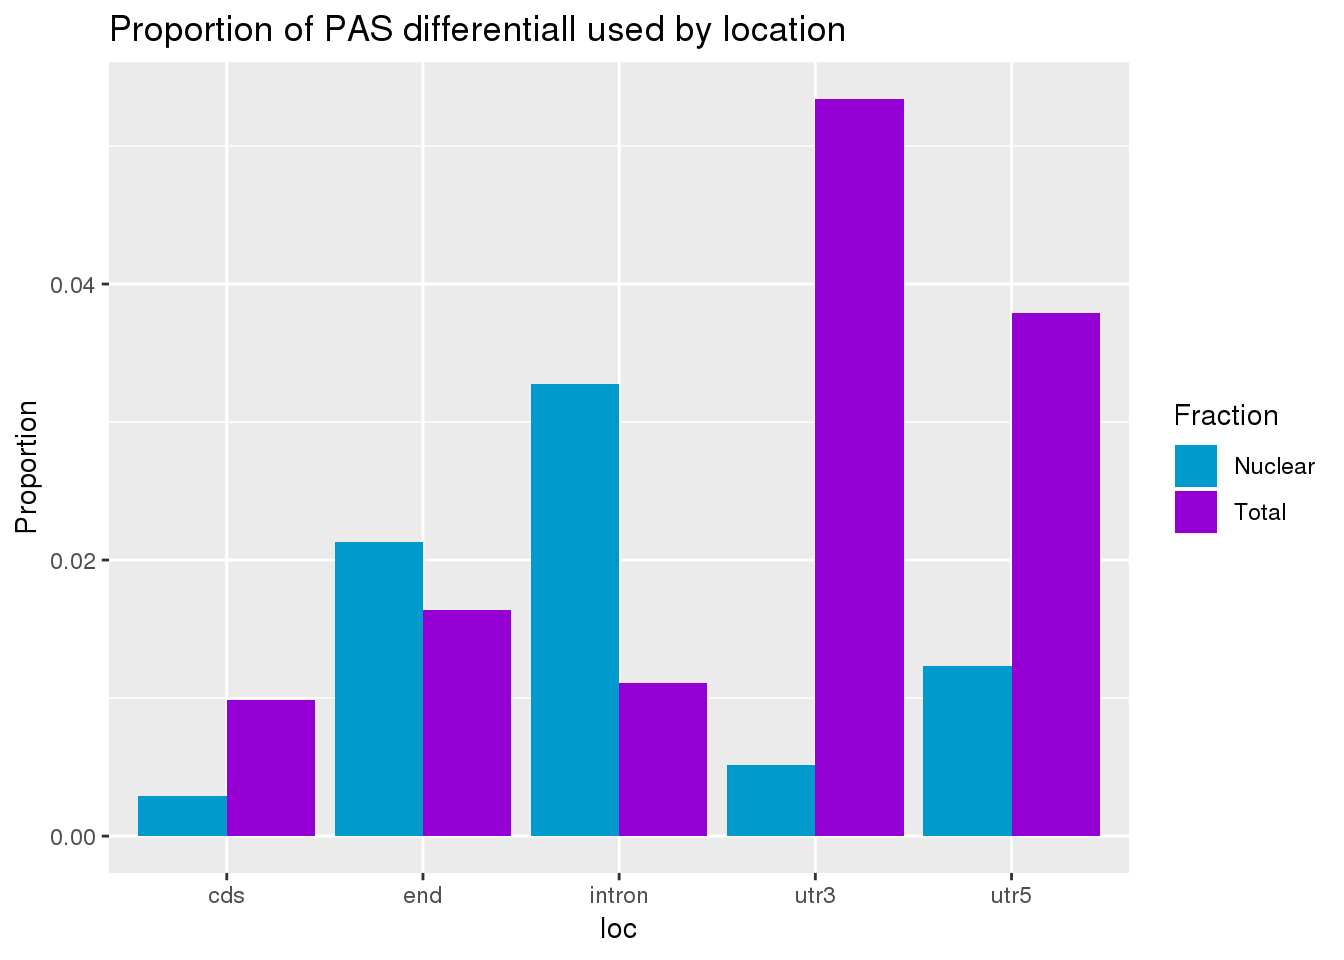
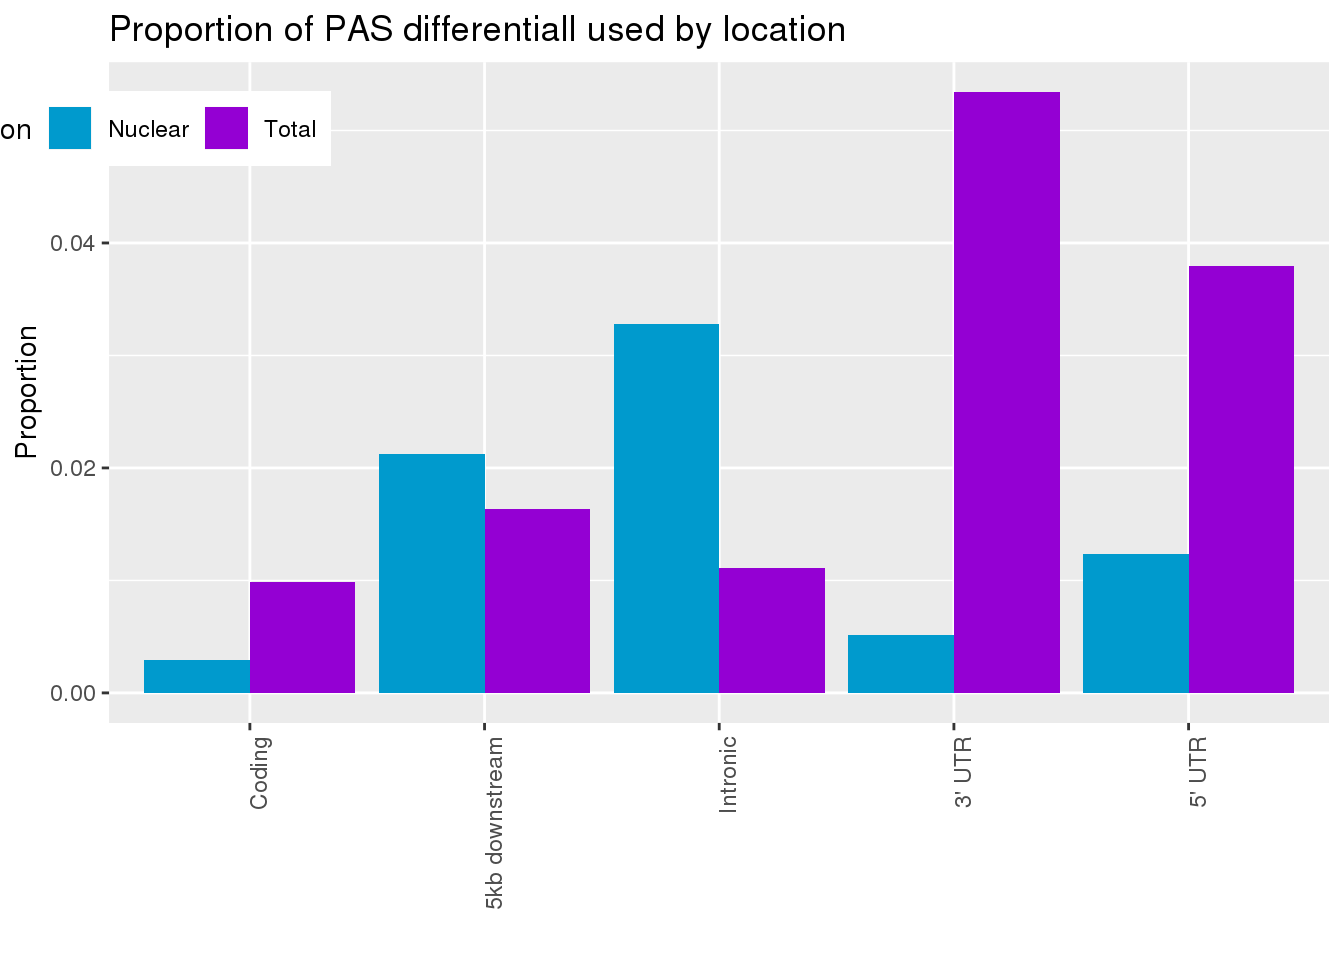
Build site.

diff --git a/docs/DiffIsoAnalysis.html b/docs/DiffIsoAnalysis.html
@@ -343,7 +343,7 @@ div.section {
 <div class="tab-content">
 <div id="summary" class="tab-pane fade in active">
 <p>
-<strong>Last updated:</strong> 2019-06-16
+<strong>Last updated:</strong> 2019-06-21
 </p>
 <p>
 <strong>Checks:</strong> <span class="glyphicon glyphicon-ok text-success" aria-hidden="true"></span> 6 <span class="glyphicon glyphicon-exclamation-sign text-danger" aria-hidden="true"></span> 0
@@ -422,10 +422,10 @@ This reproducible <a href="http://rmarkdown.rstudio.com">R Markdown</a> analysis
 <div class="panel panel-default">
 <div class="panel-heading">
 <p class="panel-title">
-<a data-toggle="collapse" data-parent="#workflowr-checks" href="#strongRepositoryversionstrongahrefhttpsgithubcombrimittlemanapaQTLtree8944f90eb9e88724cf62a9e84ff9c45831bdfd20targetblank8944f90a"> <span class="glyphicon glyphicon-ok text-success" aria-hidden="true"></span> <strong>Repository version:</strong> <a href="https://github.com/brimittleman/apaQTL/tree/8944f90eb9e88724cf62a9e84ff9c45831bdfd20" target="_blank">8944f90</a> </a>
+<a data-toggle="collapse" data-parent="#workflowr-checks" href="#strongRepositoryversionstrongahrefhttpsgithubcombrimittlemanapaQTLtree0d606c1c66742bf9bd29941523cd5e4b7cbc2d06targetblank0d606c1a"> <span class="glyphicon glyphicon-ok text-success" aria-hidden="true"></span> <strong>Repository version:</strong> <a href="https://github.com/brimittleman/apaQTL/tree/0d606c1c66742bf9bd29941523cd5e4b7cbc2d06" target="_blank">0d606c1</a> </a>
 </p>
 </div>
[2 lines of base64/hex data omitted]
 <div class="panel-body">
 <p>
 Great! You are using Git for version control. Tracking code development and connecting the code version to the results is critical for reproducibility. The version displayed above was the version of the Git repository at the time these results were generated. <br><br> Note that you need to be careful to ensure that all relevant files for the analysis have been committed to Git prior to generating the results (you can use <code>wflow_publish</code> or <code>wflow_git_commit</code>). workflowr only checks the R Markdown file, but you know if there are other scripts or data files that it depends on. Below is the status of the Git repository when the results were generated:
@@ -448,15 +448,17 @@ Untracked files:
     Untracked:  analysis/QTLexampleplots.Rmd
     Untracked:  analysis/cuttoffPercUsage.Rmd
     Untracked:  analysis/eQTLoverlap.Rmd
+    Untracked:  analysis/mergeRNA.Rmd
     Untracked:  analysis/oldstuffNotNeeded.Rmd
-    Untracked:  analysis/usageNucspecapaQTLs.Rmd
     Untracked:  apaQTL.Rproj
     Untracked:  code/.NascentRNAdtPlotFirstintronicPAS.sh.swp
     Untracked:  code/._ApaQTL_nominalNonnorm.sh
     Untracked:  code/._BothFracDTPlotGeneRegions_normalized.sh
+    Untracked:  code/._EandPqtls.sh
     Untracked:  code/._FC_NucintornUpandDown.sh
     Untracked:  code/._FC_UTR.sh
     Untracked:  code/._FC_intornUpandDownsteamPAS.sh
+    Untracked:  code/._FC_nascentseq.sh
     Untracked:  code/._FC_newPeaks_olddata.sh
     Untracked:  code/._HMMpermuteTotal.py
     Untracked:  code/._HmmPermute.py
@@ -471,6 +473,7 @@ Untracked files:
     Untracked:  code/._NetSeq_fourthintronDT.sh
     Untracked:  code/._QTL2bed.py
     Untracked:  code/._QTL2bed_withstrand.py
+    Untracked:  code/._RNAbam2bw.sh
     Untracked:  code/._SnakefilePAS
     Untracked:  code/._SnakefilefiltPAS
     Untracked:  code/._TESplots100bp.sh
@@ -490,6 +493,7 @@ Untracked files:
     Untracked:  code/._bothFracDTplot4thintron.sh
     Untracked:  code/._bothFrac_FC.sh
     Untracked:  code/._callPeaksYL.py
+    Untracked:  code/._changenomQTLres2geneName.py
     Untracked:  code/._chooseAnno2SAF.py
     Untracked:  code/._chooseSignalSite
     Untracked:  code/._chooseSignalSite.py
@@ -545,6 +549,7 @@ Untracked files:
     Untracked:  code/._makeeQTLempirical_unexp.py
     Untracked:  code/._makeeQTLempiricaldist.py
     Untracked:  code/._makegencondeTSSfile.py
+    Untracked:  code/._mergRNABam.sh
     Untracked:  code/._mergeAllBam.sh
     Untracked:  code/._mergeBW_norm.sh
     Untracked:  code/._mergeBamNascent.sh
@@ -558,6 +563,7 @@ Untracked files:
     Untracked:  code/._peak2PAS.py
     Untracked:  code/._peakFC.sh
     Untracked:  code/._pheno2countonly.R
+    Untracked:  code/._phenoQTLfromlist.py
     Untracked:  code/._processYRIgen.py
     Untracked:  code/._qtlRegionseq.sh
     Untracked:  code/._qtlsPvalOppFrac.py
@@ -581,6 +587,7 @@ Untracked files:
     Untracked:  code/._sepgenobychrom.py
     Untracked:  code/._snakemakePAS.batch
     Untracked:  code/._snakemakefiltPAS.batch
+    Untracked:  code/._sortindexRNAbam.sh
     Untracked:  code/._submit-snakemakePAS.sh
     Untracked:  code/._submit-snakemakefiltPAS.sh
     Untracked:  code/._subsetAPAnotEorPgene.py
@@ -613,6 +620,9 @@ Untracked files:
     Untracked:  code/BothFracDTPlotGeneRegions_norm.out
     Untracked:  code/BothFracDTPlotGeneRegions_normalized.sh
     Untracked:  code/DistPAS2Sig.py
+    Untracked:  code/EandPqtl.err
+    Untracked:  code/EandPqtl.out
+    Untracked:  code/EandPqtls.sh
     Untracked:  code/EncodeRNADTPlotGeneRegions.err
     Untracked:  code/EncodeRNADTPlotGeneRegions.out
     Untracked:  code/FC_NucintornUpandDown.sh
@@ -624,6 +634,9 @@ Untracked files:
     Untracked:  code/FC_intornUpandDownsteamPAS.sh
     Untracked:  code/FC_intronPASupandDown.err
     Untracked:  code/FC_intronPASupandDown.out
+    Untracked:  code/FC_nascent.err
+    Untracked:  code/FC_nascentout
+    Untracked:  code/FC_nascentseq.sh
     Untracked:  code/FC_newPAS_olddata.err
     Untracked:  code/FC_newPAS_olddata.out
     Untracked:  code/FC_newPeaks_olddata.sh
@@ -654,10 +667,17 @@ Untracked files:
     Untracked:  code/NascentRNAdtPlotintronicPAS.sh
     Untracked:  code/NascnetRNAdtPlotPAS.sh
     Untracked:  code/NetSeq_fourthintronDT.sh
+    Untracked:  code/Nuclear_example.err
+    Untracked:  code/Nuclear_example.out
     Untracked:  code/QTL2bed.py
     Untracked:  code/QTL2bed_withstrand.py
     Untracked:  code/README.md
+    Untracked:  code/RNABam2BW.err
+    Untracked:  code/RNABam2BW.out
+    Untracked:  code/RNAbam2bw.sh
     Untracked:  code/Rplots.pdf
+    Untracked:  code/Script4NuclearQTLexamples.sh
+    Untracked:  code/Script4TotalQTLexamples.sh
     Untracked:  code/TESplots100bp.err
     Untracked:  code/TESplots100bp.out
     Untracked:  code/TESplots100bp.sh
@@ -667,6 +687,8 @@ Untracked files:
     Untracked:  code/TESplots200bp.err
     Untracked:  code/TESplots200bp.out
     Untracked:  code/TESplots200bp.sh
+    Untracked:  code/Total_example.err
+    Untracked:  code/Total_example.out
     Untracked:  code/Untitled
     Untracked:  code/Upstream100Bases_general.py
     Untracked:  code/ZipandTabPheno.sh
@@ -692,6 +714,7 @@ Untracked files:
     Untracked:  code/bothFrac_FC.err
     Untracked:  code/bothFrac_FC.out
     Untracked:  code/bothFrac_FC.sh
+    Untracked:  code/changenomQTLres2geneName.py
     Untracked:  code/codingdms2bed.py
     Untracked:  code/convertNominal2SNPLOC.py
     Untracked:  code/correctNomeqtl.R
@@ -743,12 +766,15 @@ Untracked files:
     Untracked:  code/makeeQTLempirical_unexp.py
     Untracked:  code/makeeQTLempiricaldist.py
     Untracked:  code/makegencondeTSSfile.py
+    Untracked:  code/mergRNABam.sh
     Untracked:  code/mergeBW_norm.sh
     Untracked:  code/mergeBWnorm.err
     Untracked:  code/mergeBWnorm.out
     Untracked:  code/mergeBamNacent.err
     Untracked:  code/mergeBamNacent.out
     Untracked:  code/mergeBamNascent.sh
+    Untracked:  code/mergeRNAbam.err
+    Untracked:  code/mergeRNAbam.out
     Untracked:  code/mnase1stintron.sh
     Untracked:  code/mnaseDTPlot1stintron.err
     Untracked:  code/mnaseDTPlot1stintron.out
@@ -761,6 +787,7 @@ Untracked files:
     Untracked:  code/netseqFC.out
     Untracked:  code/netseqFC.sh
     Untracked:  code/neyDTPlot4thintron.err
+    Untracked:  code/phenoQTLfromlist.py
     Untracked:  code/processYRIgen.py
     Untracked:  code/qtlFacetBoxplots.err
     Untracked:  code/qtlFacetBoxplots.out
@@ -814,6 +841,9 @@ Untracked files:
     Untracked:  code/seqQTLregion.out
     Untracked:  code/snakePASlog.out
     Untracked:  code/snakefiltPASlog.out
+    Untracked:  code/sortindexRNABam.err
+    Untracked:  code/sortindexRNABam.out
+    Untracked:  code/sortindexRNAbam.sh
     Untracked:  code/subsetAPAnotEorPgene.py
     Untracked:  code/subsetApanoteGene.py
     Untracked:  code/subsetUnexplainedeQTLs.py
@@ -832,6 +862,7 @@ Untracked files:
     Untracked:  code/utrdms2saf.py
     Untracked:  code/vcf_keepsnps.err
     Untracked:  code/vcf_keepsnps.out
+    Untracked:  code/writeExampleQTLcode.py
     Untracked:  code/zipandtabPhen.err
     Untracked:  code/zipandtabPhen.out
     Untracked:  data/._.DS_Store
@@ -847,6 +878,7 @@ Untracked files:
     Untracked:  data/HMMqtls/
     Untracked:  data/Li_eQTLs/
     Untracked:  data/NascentRNA/
+    Untracked:  data/NucSpeceQTLeffect/
     Untracked:  data/PAS/
     Untracked:  data/QTLGenotypes/
     Untracked:  data/QTLoverlap/
@@ -888,6 +920,8 @@ Untracked files:
     Untracked:  data/mergedBW_norm/
     Untracked:  data/mergedBam/
     Untracked:  data/mergedbyFracBam/
+    Untracked:  data/molPhenos/
+    Untracked:  data/molQTLs/
     Untracked:  data/motifdistrupt/
     Untracked:  data/netseq/
     Untracked:  data/nonNorm_pheno/
@@ -911,10 +945,10 @@ Untracked files:
     Untracked:  output/meanCorrelationPhenotypes.svg
 
 Unstaged changes:
+    Modified:   analysis/NuclearSpecAPAqtl.Rmd
     Modified:   analysis/Readdistagainstfeatures.Rmd
-    Modified:   analysis/intonRNAratio.Rmd
-    Modified:   analysis/nascentRNA.Rmd
     Modified:   analysis/overlapapaqtlsandeqtls.Rmd
+    Modified:   analysis/pQTLandeQTLoverlap.Rmd
     Modified:   code/BothFracDTPlotGeneRegions.sh
     Modified:   code/Snakefile
     Deleted:    code/Upstream10Bases_general.py
@@ -968,6 +1002,40 @@ Message
 </tr>
 </thead>
 <tbody>
+<tr>
+<td>
+Rmd
+</td>
+<td>
+<a href="https://github.com/brimittleman/apaQTL/blob/0d606c1c66742bf9bd29941523cd5e4b7cbc2d06/analysis/DiffIsoAnalysis.Rmd" target="_blank">0d606c1</a>
+</td>
+<td>
+brimittleman
+</td>
+<td>
+2019-06-21
+</td>
+<td>
+fix figures
+</td>
+</tr>
+<tr>
+<td>
+html
+</td>
+<td>
+<a href="https://rawcdn.githack.com/brimittleman/apaQTL/2d1a80c01ce5b56d1de2e91a768f77c5a154d9bb/docs/DiffIsoAnalysis.html" target="_blank">2d1a80c</a>
+</td>
+<td>
+brimittleman
+</td>
+<td>
+2019-06-16
+</td>
+<td>
+Build site.
+</td>
+</tr>
 <tr>
 <td>
 Rmd
@@ -1268,12 +1336,12 @@ add diff iso
 <pre><code>This is workflowr version 1.3.0
 Run ?workflowr for help getting started</code></pre>
 <pre class="r"><code>library(tidyverse)</code></pre>
-<pre><code>── Attaching packages ────────────────────────────────────────────────── tidyverse 1.2.1 ──</code></pre>
+<pre><code>── Attaching packages ───────────────────────────────────────────────────────────────────────────────────────────────────────────────── tidyverse 1.2.1 ──</code></pre>
 <pre><code>✔ ggplot2 3.1.1       ✔ purrr   0.3.2  
 ✔ tibble  2.1.1       ✔ dplyr   0.8.0.1
 ✔ tidyr   0.8.3       ✔ stringr 1.3.1  
 ✔ readr   1.3.1       ✔ forcats 0.3.0  </code></pre>
-<pre><code>── Conflicts ───────────────────────────────────────────────────── tidyverse_conflicts() ──
+<pre><code>── Conflicts ──────────────────────────────────────────────────────────────────────────────────────────────────────────────────── tidyverse_conflicts() ──
 ✖ dplyr::filter() masks stats::filter()
 ✖ dplyr::lag()    masks stats::lag()</code></pre>
 <pre class="r"><code>library(reshape2)</code></pre>
@@ -1705,7 +1773,7 @@ brimittleman
 <pre class="r"><code>effectsize_deltaPAUProp_both= effectsize_deltaPAUProp_nuc %&gt;% inner_join(effectsize_deltaPAUProp_tot, by=c(&quot;loc&quot;,&quot;nloc&quot;)) %&gt;% dplyr::rename(Nuclear=Proportion_nuc, Total=Proportion_tot) %&gt;% select(loc, Nuclear, Total) 
 effectsize_deltaPAUProp_both_melt= effectsize_deltaPAUProp_both %&gt;% melt(id.vars=&quot;loc&quot;, variable.name=&quot;Fraction&quot;, value.name = &quot;Proportion&quot;) 
 effectsize_deltaPAUProp_both_melt$Fraction=as.character(effectsize_deltaPAUProp_both_melt$Fraction)</code></pre>
-<pre class="r"><code>ggplot(effectsize_deltaPAUProp_both_melt, aes(x=loc, y=Proportion, by=Fraction, fill=Fraction)) + geom_bar(stat=&quot;identity&quot;, position=&quot;dodge&quot;) + scale_fill_manual(values=c(&quot;deepskyblue3&quot;,&quot;darkviolet&quot;)) + labs(title=&quot;Proportion of PAS differentiall used by location&quot;)</code></pre>
+<pre class="r"><code>ggplot(effectsize_deltaPAUProp_both_melt, aes(x=loc, y=Proportion, by=Fraction, fill=Fraction)) + geom_bar(stat=&quot;identity&quot;, position=&quot;dodge&quot;) + scale_fill_manual(values=c(&quot;deepskyblue3&quot;,&quot;darkviolet&quot;)) + labs(title=&quot;Proportion of PAS differentiall used by location&quot;,x=&quot;&quot;) +scale_x_discrete(labels = c(&#39;Coding&#39;,&#39;5kb downstream&#39;,&#39;Intronic&#39;,&quot;3&#39; UTR&quot;, &quot;5&#39; UTR&quot;)) +theme(axis.text.x = element_text(angle = 90, hjust = 1)) +  theme(legend.position = c(0.01,.9), legend.direction = &quot;horizontal&quot;)</code></pre>
 <p><img src="figure/DiffIsoAnalysis.Rmd/unnamed-chunk-32-1.png" width="672" style="display: block; margin: auto;" /></p>
 <p>
 <button type="button" class="btn btn-default btn-xs btn-workflowr btn-workflowr-fig" data-toggle="collapse" data-target="#fig-unnamed-chunk-32-1">
@@ -2016,7 +2084,7 @@ brimittleman
 <pre class="r"><code>summary(effectsize$logef)</code></pre>
 <pre><code>    Min.  1st Qu.   Median     Mean  3rd Qu.     Max. 
 -2.44401 -0.33487 -0.01384  0.00000  0.34328  2.47805 </code></pre>
-<pre class="r"><code>ggplot(effectsize_length_cat, aes(x=PercLength, by=fraction, fill=fraction))+ geom_histogram(alpha=.4,bins=50)  + labs(title=&quot;Location of differentially used PAS \nwithin a gene body &quot;)+scale_fill_manual(values=c(&quot;deepskyblue3&quot;,&quot;darkviolet&quot;)) </code></pre>
+<pre class="r"><code>ggplot(effectsize_length_cat, aes(x=PercLength, by=fraction, fill=fraction))+ geom_histogram(,bins=50)  + labs(title=&quot;Location of differentially used PAS \nwithin a gene body&quot;, fill=&quot;Fraction&quot;, y=&quot;Number of PAS&quot;, x=&quot;Percent of Gene Length&quot;)+scale_fill_manual(values=c(&quot;deepskyblue3&quot;,&quot;darkviolet&quot;),labels = c(&quot;Nuclear&quot;, &quot;Total&quot;))+ theme(legend.position = c(0.01,.9), legend.direction = &quot;horizontal&quot;)</code></pre>
 <p><img src="figure/DiffIsoAnalysis.Rmd/unnamed-chunk-46-1.png" width="672" style="display: block; margin: auto;" /></p>
 <p>
 <button type="button" class="btn btn-default btn-xs btn-workflowr btn-workflowr-fig" data-toggle="collapse" data-target="#fig-unnamed-chunk-46-1">
